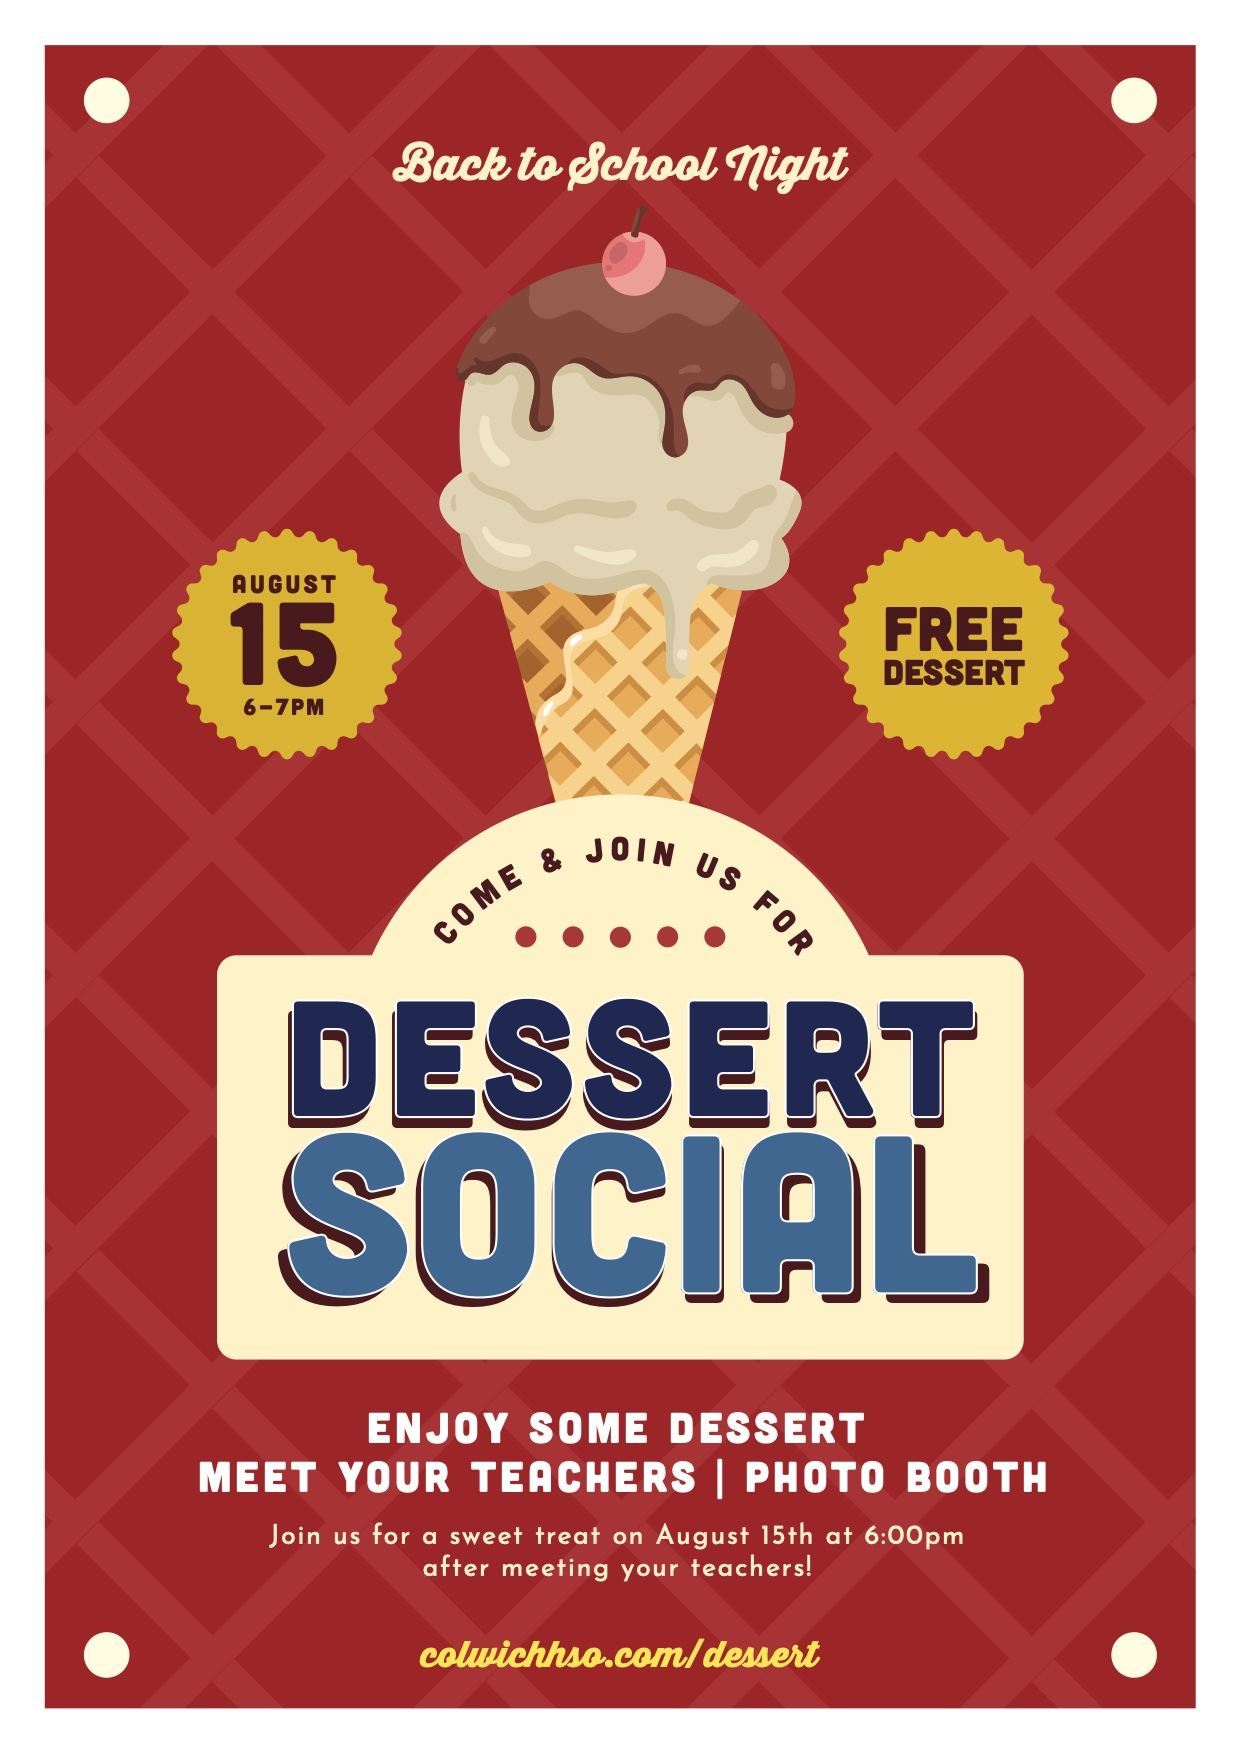
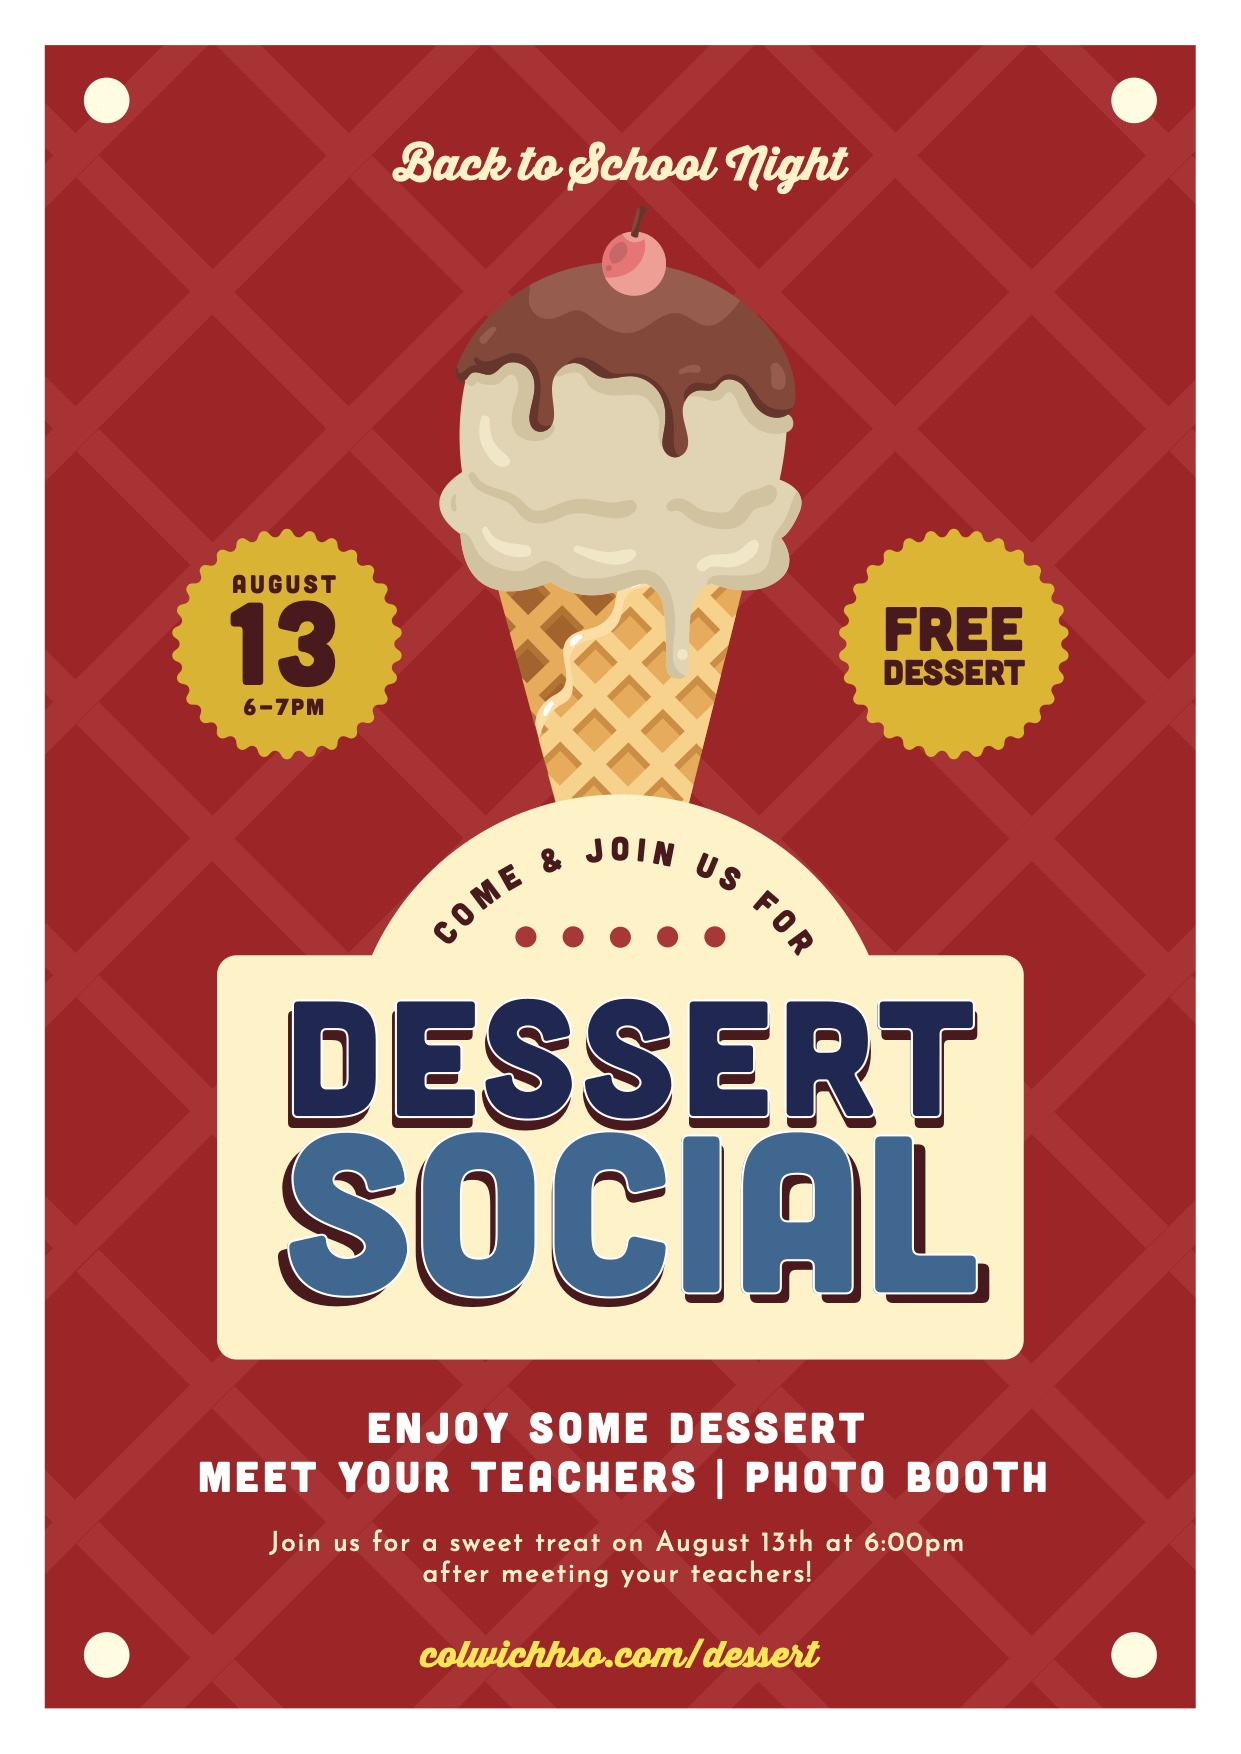
ice cream social

Changed region(s): [[0.2143, 0.862, 0.7655, 0.9236], [0.2143, 0.3387, 0.2756, 0.3694]]

diff --git a/content/events/icecreamsocial.md b/content/events/icecreamsocial.md
@@ -2,7 +2,7 @@
 title: Dessert Social 🍪
 description: Join us for tasty treats and socializing before school starts!
 type: events
-event_date: 2024-08-15 06:00:00 +0000
+event_date: 2024-08-13 06:00:00 +0000
 url: "/dessert"
 fullUrl: "https://colwichhso.com/dessert"
 pageImage: "https://colwichhso.com/images/flyers/DessertSocialOpenGraph.jpg"
@@ -25,4 +25,4 @@ polaroid:
 - /images/flyers/IceCreamSocialWeb.jpg
 - /images/flyers/IceCreamSocialWeb.jpg
 ---
-Back to School night! We hope to see you on **August 15th** between 6:00pm-7:00pm. Stop by after meeting your teachers to enjoy dessert with the community.
+Back to School night! We hope to see you on **August 13th** between 6:00pm-7:00pm. Stop by after meeting your teachers to enjoy dessert with the community.
